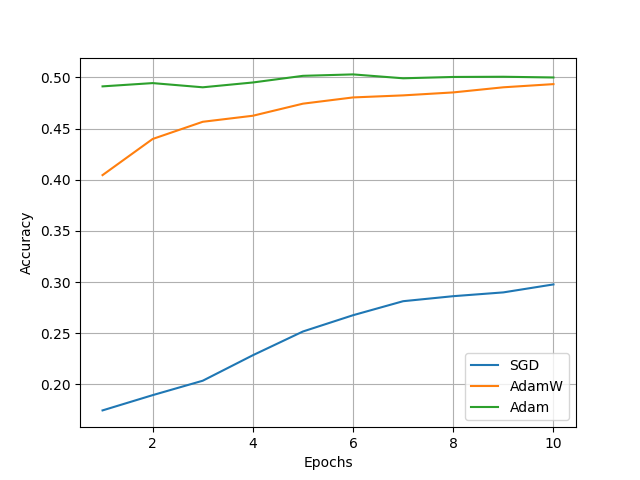
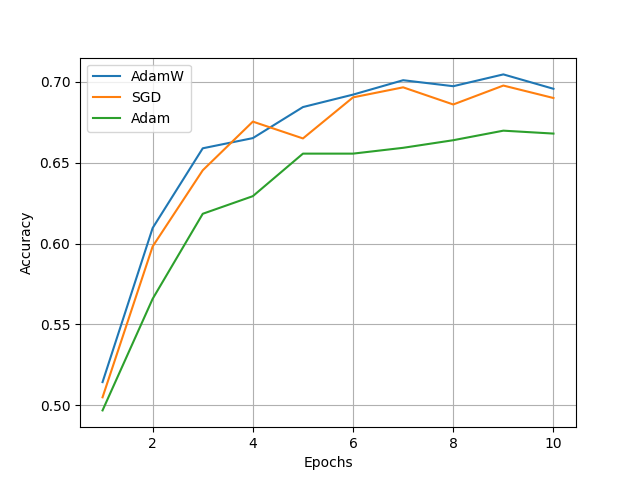
Changed network architecture; increased accuracy to just over 70% (but for only one of the optimizers)

diff --git a/main.py b/main.py
@@ -15,6 +15,7 @@ Hints:
 import numpy as np
 import torch
 from torch import nn
+from torch.nn import functional as F
 from torch.utils.data import DataLoader
 from torchvision import datasets
 from torchvision.transforms import ToTensor
@@ -40,10 +41,11 @@ test_data = datasets.CIFAR10(
     transform=ToTensor(),
 )
 
-batch_size = 64
+batch_size = 32
 
 # Create data loaders
-train_dataloader = DataLoader(training_data, batch_size=batch_size)
+# trainset = torch.utils.data.Subset(training_data, [x for x in range(1562)])
+train_dataloader = DataLoader(training_data, batch_size=batch_size,shuffle=True)
 test_dataloader = DataLoader(test_data, batch_size=batch_size)
 
 
@@ -54,31 +56,37 @@ for X, y in test_dataloader:
     print(f"Shape of y: {y.shape} {y.dtype}")
     break
 
-
 device = "cuda" if torch.cuda.is_available() else "mps" if torch.backends.mps.is_available() else "cpu"
 print(f"Using {device} device")
 
-# Define a basic convolutional neural network model with one hidden layer
 class NeuralNetwork(nn.Module):
     def __init__(self):
-        super().__init__()
-        self.flatten = nn.Flatten()
-        self.linear_relu_stack = nn.Sequential(
-            nn.Linear(3*32*32,256), #Images are 3x32x32 (3 RGB channels; 32x32 dimensions)
-            nn.ReLU(),
-            nn.Linear(256, 128),
-            nn.ReLU(),
-            nn.Linear(128, 10)
-        )
+        super(NeuralNetwork, self).__init__()
+        self.conv1 = nn.Conv2d(3, 64, 5)
+        self.pool = nn.MaxPool2d(2,2)
+        self.conv2 = nn.Conv2d(64, 128, 5)
+        # self.conv3 = nn.Conv2d(16, 16, 5)
+        self.dropout = nn.Dropout2d(p=0.05)
+        self.fc1 = nn.Linear(128*5*5, 512)
+        self.fc2 = nn.Linear(512, 128)
+        self.fc3 = nn.Linear(128, 10)
 
     def forward(self, x):
-        x = self.flatten(x)
-        logits = self.linear_relu_stack(x)
-        return logits
+        x = self.pool(F.relu(self.conv1(x)))
+        # x = self.dropout(x)
+        x = self.pool(F.relu(self.conv2(x)))
+        # x = F.relu(self.conv2(x))
+        # print(x.shape)
+        # x = F.relu(self.conv3(x))
+        x = self.dropout(x)
+        x = x.view(-1, 128*5*5)
+        x = F.relu(self.fc1(x))
+        x = F.relu(self.fc2(x))
+        # x = F.relu(self.fc3(x))
+        x = self.fc3(x)
+        return x
 
-model = NeuralNetwork().to(device)
-#We will try three different optimizers: SGD, AdamW, and Adam
-optimizers = [('SGD', torch.optim.SGD(model.parameters(), lr=1e-3)), ('AdamW', torch.optim.AdamW(model.parameters(), lr=1e-3)), ('Adam', torch.optim.Adam(model.parameters(), lr=1e-3))]
+# optimizers = [('Adam', torch.optim.Adam(model.parameters(), lr=1e-3))]
 
 #Initialize lists for accuracies and losses per epoch so we can plot them later
 accuracies = []
@@ -91,6 +99,7 @@ def train(dataloader, model, loss_fn, optimizer):
     size = len(dataloader.dataset)
     model.train()
     for batch, (X,y) in enumerate(dataloader):
+
         X, y = X.to(device), y.to(device)
 
         # Compute prediction error
@@ -115,7 +124,7 @@ def test(dataloader, model, loss_fn):
         for X, y in dataloader:
             X, y = X.to(device), y.to(device) #Send images (X) and labels (y) to neural network "device"
             pred = model(X) #Retrieve model predictions
-            print(pred)
+            # print(pred)
             test_loss += loss_fn(pred, y).item() #Add epoch loss to the total
             correct += (pred.argmax(1) == y).type(torch.float).sum().item() #Counts the number of correct predictions (consistent with the label, y) and adds that number to the total
     test_loss /= num_batches #Get average loss by dividing the total loss by the number of batches
@@ -126,7 +135,13 @@ def test(dataloader, model, loss_fn):
 
 epochs = 10
 
-for optname, optimizer in optimizers: #Iterate over optimizers (SGD, AdamW, Adam)
+model = NeuralNetwork().to(device)
+model2 = NeuralNetwork().to(device)
+model3 = NeuralNetwork().to(device)
+#We will try three different optimizers: SGD, AdamW, and Adam
+optimizers = [('AdamW', torch.optim.AdamW(model.parameters(), lr=1e-3), model), ('SGD', torch.optim.SGD(model2.parameters(), lr=0.01, momentum=0.9), model2), ('Adam', torch.optim.Adam(model3.parameters(), lr=1e-3), model3)]
+
+for optname, optimizer, model in optimizers: #Iterate over optimizers (SGD, AdamW, Adam)
     accuracies = [] #Empty lists for accuracies and losses with each optimizer since they each have their own line in the plot
     loss = []
     for t in range(epochs):
